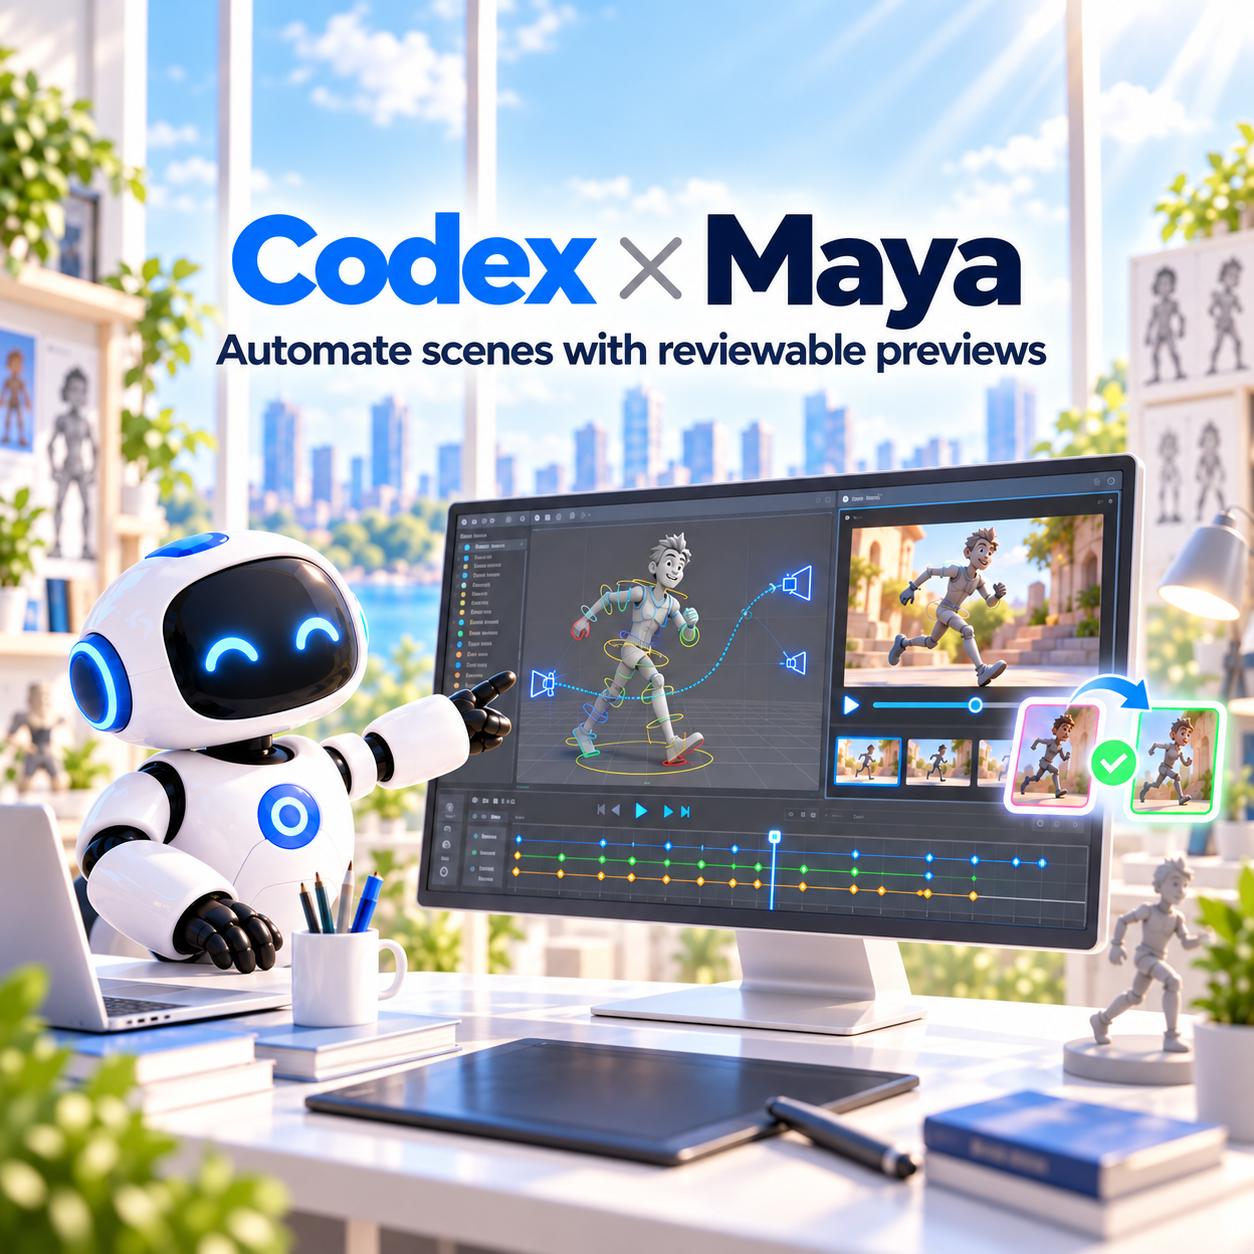
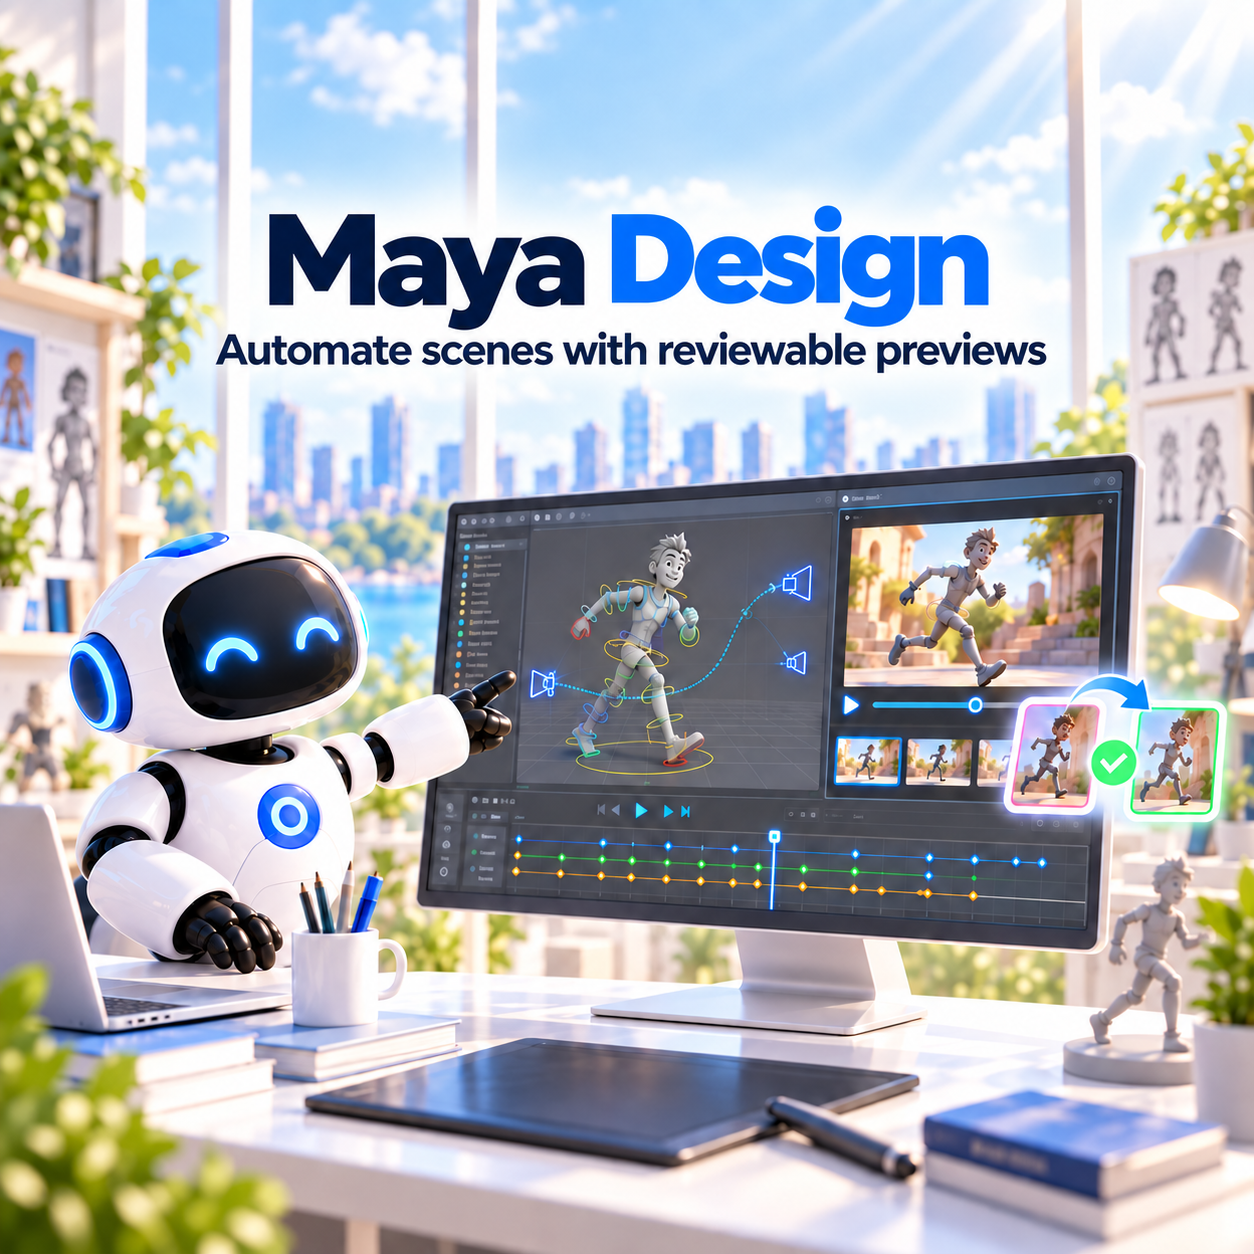
fix: 统一跨宿主公开品牌

diff --git a/tests/test_distribution.py b/tests/test_distribution.py
@@ -32,7 +32,7 @@ class DistributionTests(unittest.TestCase):
     def test_manifest_and_marketplace(self) -> None:
         manifest = load_json(".codex-plugin/plugin.json")
         self.assertEqual(manifest["name"], PLUGIN_ID)
-        self.assertEqual(manifest["version"].split("+", 1)[0], "0.1.4")
+        self.assertEqual(manifest["version"].split("+", 1)[0], "0.1.5")
         self.assertEqual(manifest["repository"], REPOSITORY)
         self.assertEqual(manifest["skills"], "./skills/")
         self.assertIn("Jimeng link", manifest["description"])
@@ -48,7 +48,7 @@ class DistributionTests(unittest.TestCase):
         marketplace = load_json(".agents/plugins/marketplace.json")
         entries = [entry for entry in marketplace["plugins"] if entry["name"] == PLUGIN_ID]
         self.assertEqual(len(entries), 1)
-        self.assertEqual(entries[0]["source"], {"source": "url", "url": REPOSITORY + ".git", "ref": "v0.1.4"})
+        self.assertEqual(entries[0]["source"], {"source": "url", "url": REPOSITORY + ".git", "ref": "v0.1.5"})
         self.assertEqual(entries[0]["policy"], {"installation": "AVAILABLE", "authentication": "ON_USE"})
 
     def test_structure_legal_and_brand_assets(self) -> None:

diff --git a/tests/test_distribution_extended.py b/tests/test_distribution_extended.py
@@ -59,14 +59,14 @@ class GitHubSourceTests(unittest.TestCase):
             entry for entry in marketplace["plugins"] if entry["name"] == manifest["name"]
         )["source"]
         self.assertEqual(source["url"], "https://github.com/full-aigc-plugins/maya-design-plugin.git")
-        self.assertEqual(source["ref"], "v0.1.4")
+        self.assertEqual(source["ref"], "v0.1.5")
 
 
 class PluginIdentityTests(unittest.TestCase):
     def test_identity_and_version(self) -> None:
         manifest = _load_json(".codex-plugin/plugin.json")
         self.assertEqual(manifest["name"], "maya-design")
-        self.assertEqual(manifest["version"].split("+", 1)[0], "0.1.4")
+        self.assertEqual(manifest["version"].split("+", 1)[0], "0.1.5")
         self.assertFalse(any(c in manifest["name"] for c in (" ", "\t")))
 
     def test_display_name_present(self) -> None:

diff --git a/tests/test_cross_host_naming.py b/tests/test_cross_host_naming.py
@@ -5,7 +5,14 @@ import unittest
 
 
 ROOT = Path(__file__).resolve().parents[1]
-BANNED_PUBLIC_NAMES = ("codex" + "-maya", "codex" + " Maya", "codex" + "-Maya", "codex" + "-dreamina-3d", "codex" + "-blender",)
+BANNED_PUBLIC_NAMES = (
+    "codex" + "-maya",
+    "codex" + " Maya",
+    "codex" + "-Maya",
+    "Codex" + " × Maya",
+    "codex" + "-dreamina-3d",
+    "codex" + "-blender",
+)
 TEXT_SUFFIXES = {".md", ".json", ".py", ".mjs", ".js", ".toml", ".yaml", ".yml", ".svg"}
 EXCLUDED_PARTS = {".git", ".mimosa", ".worktrees", ".superpowers", "artifacts", "openspec", "superpowers", "verification", "__pycache__"}
 

diff --git a/tests/test_contracts.py b/tests/test_contracts.py
@@ -88,7 +88,7 @@ class PluginIdentityTests(unittest.TestCase):
     def test_manifest_identity(self) -> None:
         manifest = load_json(".codex-plugin/plugin.json")
         self.assertEqual(manifest["name"], PLUGIN_ID)
-        self.assertEqual(manifest["version"].split("+", 1)[0], "0.1.4")
+        self.assertEqual(manifest["version"].split("+", 1)[0], "0.1.5")
         self.assertEqual(manifest["interface"]["displayName"], DISPLAY_NAME)
         self.assertEqual(manifest["interface"]["brandColor"], "#37A5CC")
         self.assertNotIn("mcpServers", manifest)

diff --git a/README.md b/README.md
@@ -1,12 +1,12 @@
 # Autodesk Maya Design Plugin
 
-![Codex × Maya — Automate scenes with reviewable previews](assets/maya-hero.png)
+![Maya Design — Automate scenes with reviewable previews](assets/maya-hero.png)
 
 <img src="assets/logo.png" alt="Autodesk Maya Design logo" width="128">
 
 > Inspect an authorized Maya scene, capture a reversible Playblast, and return a Jimeng link through the official uploader — with the scene state restored afterwards.
 
-[![Version](https://img.shields.io/badge/version-0.1.4-blue)](https://github.com/full-aigc-plugins/maya-design-plugin/releases/tag/v0.1.4)
+[![Version](https://img.shields.io/badge/version-0.1.5-blue)](https://github.com/full-aigc-plugins/maya-design-plugin/releases/tag/v0.1.5)
 [![License](https://img.shields.io/badge/license-Apache--2.0-green)](LICENSE)
 
 [English](README.md) | [简体中文](README.zh-CN.md) · [Install](#installation) · [Quick start](#quick-start) · [Runtime contract](#runtime-contract) · [Troubleshooting](#troubleshooting)
@@ -19,7 +19,7 @@ The plugin is a guarded runner, not a Maya reimplementation: it discovers `mayap
 
 ### Who it is for
 
-- Technical artists who want Codex to prepare reviewable previews without leaving the scene changed.
+- Technical artists who want their coding agent to prepare reviewable previews without leaving the scene changed.
 - Pipeline engineers who need an argv-only, diagnosable Maya automation path.
 - Reviewers who need receipts and state-restoration proof rather than a claim that a render happened.
 
@@ -56,7 +56,7 @@ Validated Playblast media + restoration receipt
 |---|---|
 | Plugin ID | `maya-design` |
 | Host | Codex CLI or ChatGPT desktop app |
-| Current version | `0.1.4` |
+| Current version | `0.1.5` |
 | Plugin manifest | `.codex-plugin/plugin.json` |
 | MCP configuration | none — Skills invoke `mayapy` through argv |
 | Primary language | Python 3.7+ (matching Maya's embedded Python) |
@@ -90,7 +90,7 @@ Validated Playblast media + restoration receipt
 | Experimental | Contract may change; verify before relying on it |
 | Blocked / NOT_RUN | Not verified on this host; never present it as working |
 
-**Runtime honesty:** the offline function-level integration and its tests exist, but real Maya discovery, real Playblast capture, the real browser hand-off, and a live marketplace install round-trip are all recorded as **not yet verified** in `docs/verification/`. Release `0.1.4` therefore retains the historical `0.1.0` implemented-but-unverified runtime evidence rather than claiming fresh live proof.
+**Runtime honesty:** the offline function-level integration and its tests exist, but real Maya discovery, real Playblast capture, the real browser hand-off, and a live marketplace install round-trip are all recorded as **not yet verified** in `docs/verification/`. Release `0.1.5` therefore retains the historical `0.1.0` implemented-but-unverified runtime evidence rather than claiming fresh live proof.
 
 ## Architecture and core flow
 
@@ -117,7 +117,7 @@ flowchart LR
 | `scripts/maya_bridge.py` | Inspection, Playblast, restoration, and the receipt shape | Package installation |
 | `scripts/maya_diagnostics.py` | Typed, path-safe diagnostics | Fixing the environment |
 | `scripts/media_probe.py` | MP4 container and codec validation | Transcoding |
-| `skills/` (4) | Routing, inspection, export, and diagnosis instructions for Codex | Runtime enforcement |
+| `skills/` (4) | Routing, inspection, export, and diagnosis instructions for supported hosts | Runtime enforcement |
 
 ## Compatibility
 
@@ -138,7 +138,7 @@ Out of scope: Maya versions before 2022, and a Linux Maya installation that has 
 ### From the plugin marketplace
 
 ```bash
-codex plugin marketplace add full-aigc-plugins/maya-design-plugin --ref v0.1.4
+codex plugin marketplace add full-aigc-plugins/maya-design-plugin --ref v0.1.5
 codex plugin add maya-design@partme-ai-maya
 ```
 

diff --git a/README.zh-CN.md b/README.zh-CN.md
@@ -1,12 +1,12 @@
 # Autodesk Maya Design 插件
 
-![Codex × Maya — 用可审阅预览自动化场景](assets/maya-hero.png)
+![Maya Design——用可审阅预览自动化场景](assets/maya-hero.png)
 
 <img src="assets/logo.png" alt="Autodesk Maya Design Logo" width="128">
 
 > 检查已授权的 Maya 场景、抓取可恢复的 Playblast、通过官方上传器返回即梦链接——并在结束后还原场景状态。
 
-[![版本](https://img.shields.io/badge/version-0.1.4-blue)](https://github.com/full-aigc-plugins/maya-design-plugin/releases/tag/v0.1.4)
+[![版本](https://img.shields.io/badge/version-0.1.5-blue)](https://github.com/full-aigc-plugins/maya-design-plugin/releases/tag/v0.1.5)
 [![许可证](https://img.shields.io/badge/license-Apache--2.0-green)](LICENSE)
 
 [English](README.md) | [简体中文](README.zh-CN.md) · [安装](#安装) · [快速开始](#快速开始) · [运行契约](#运行契约) · [故障排查](#故障排查)
@@ -19,7 +19,7 @@
 
 ### 适合谁
 
-- 希望 Codex 帮忙出可审阅预览、又不愿场景被改动的技术美术。
+- 希望编码智能体帮忙出可审阅预览、又不愿场景被改动的技术美术。
 - 需要仅用 argv、可诊断的 Maya 自动化路径的管线工程师。
 - 需要回执与"状态已还原"证据、而不是一句"渲染完了"的审阅者。
 
@@ -56,7 +56,7 @@
 |---|---|
 | 插件 ID | `maya-design` |
 | 宿主 | Codex CLI 或 ChatGPT 桌面应用 |
-| 当前版本 | `0.1.4` |
+| 当前版本 | `0.1.5` |
 | 插件清单 | `.codex-plugin/plugin.json` |
 | MCP 配置 | 无——Skills 通过 argv 调用 `mayapy` |
 | 主要语言 | Python 3.7+（与 Maya 内置 Python 对齐） |
@@ -90,7 +90,7 @@
 | 实验性 | 契约可能调整；依赖前请自行验证 |
 | 封锁 / NOT_RUN | 本机未验证；不得描述为可用 |
 
-**运行期诚实说明：** 离线函数级集成与其测试已经就绪，但真实 Maya 发现、真实 Playblast 抓取、真实浏览器交接，以及一次真实的 marketplace 安装往返，都已在 `docs/verification/` 中记录为**尚未验证**。`0.1.4` 继续引用历史 `0.1.0` 的“已实现但运行期未验证”证据，不把它表述为新的实机证明。
+**运行期诚实说明：** 离线函数级集成与其测试已经就绪，但真实 Maya 发现、真实 Playblast 抓取、真实浏览器交接，以及一次真实的 marketplace 安装往返，都已在 `docs/verification/` 中记录为**尚未验证**。`0.1.5` 继续引用历史 `0.1.0` 的“已实现但运行期未验证”证据，不把它表述为新的实机证明。
 
 ## 架构与核心流程
 
@@ -138,7 +138,7 @@ flowchart LR
 ### 从插件市场安装
 
 ```bash
-codex plugin marketplace add full-aigc-plugins/maya-design-plugin --ref v0.1.4
+codex plugin marketplace add full-aigc-plugins/maya-design-plugin --ref v0.1.5
 codex plugin add maya-design@partme-ai-maya
 ```
 

diff --git a/PRIVACY.md b/PRIVACY.md
@@ -1,8 +1,7 @@
 # Privacy
 
-Autodesk Maya Design is a local Codex plugin foundation. It does not include telemetry, advertising, or a hosted data service.
+Autodesk Maya Design is a local, cross-host plugin foundation. It does not include telemetry, advertising, or a hosted data service.
 
 Future capabilities may read user-selected project files or invoke locally installed applications and CLIs. They must keep access within the user-approved scope, must not persist credentials in this repository, and must document any external data transfer before release.
 
 Generated previews, receipts, logs, and downloaded artifacts remain under paths selected by the user. Users should review third-party product privacy terms before enabling integrations.
-

diff --git a/docs/Maya-Design-Plugin-Architecture.md b/docs/Maya-Design-Plugin-Architecture.md
@@ -183,7 +183,7 @@ The output receipt matches the media handoff contract used by `blender-design` a
 
 | Aspect | Position |
 |---|---|
-| Distribution | Cross-host marketplace entry pointing at this repository, pinned to immutable `v0.1.4` |
+| Distribution | Cross-host marketplace entry pointing at this repository, pinned to immutable `v0.1.5` |
 | Python | 3.7 or newer, matching Maya's embedded interpreter |
 | Maya | 2022 or newer; each supported OS/Maya/Python combination needs a recorded runtime test |
 | Out of scope | Maya before 2022, and a Linux install with no explicit `MAYA_LOCATION` |

diff --git a/docs/Maya-Design-Plugin-Architecture.zh_CN.md b/docs/Maya-Design-Plugin-Architecture.zh_CN.md
@@ -183,7 +183,7 @@ python3 scripts/validate_distribution.py
 
 | 方面 | 立场 |
 |---|---|
-| 分发 | 指向本仓库、固定到不可变 `v0.1.4` 的跨宿主 marketplace 条目 |
+| 分发 | 指向本仓库、固定到不可变 `v0.1.5` 的跨宿主 marketplace 条目 |
 | Python | 3.7 或更新，与 Maya 内置解释器对齐 |
 | Maya | 2022 或更新；每个受支持的 OS/Maya/Python 组合都需要一次记录的运行测试 |
 | 范围之外 | 2022 之前的 Maya，以及没有显式 `MAYA_LOCATION` 的 Linux 安装 |

diff --git a/docs/getting-started.zh-CN.md b/docs/getting-started.zh-CN.md
@@ -30,7 +30,7 @@ C:\Program Files\Autodesk\Maya2026
 ### 第 2 步：安装 Codex 插件
 
 ```bash
-codex plugin marketplace add https://github.com/full-aigc-plugins/maya-design-plugin.git --ref v0.1.4
+codex plugin marketplace add https://github.com/full-aigc-plugins/maya-design-plugin.git --ref v0.1.5
 codex plugin add maya-design@partme-ai-maya
 codex plugin list --available --json
 ```
